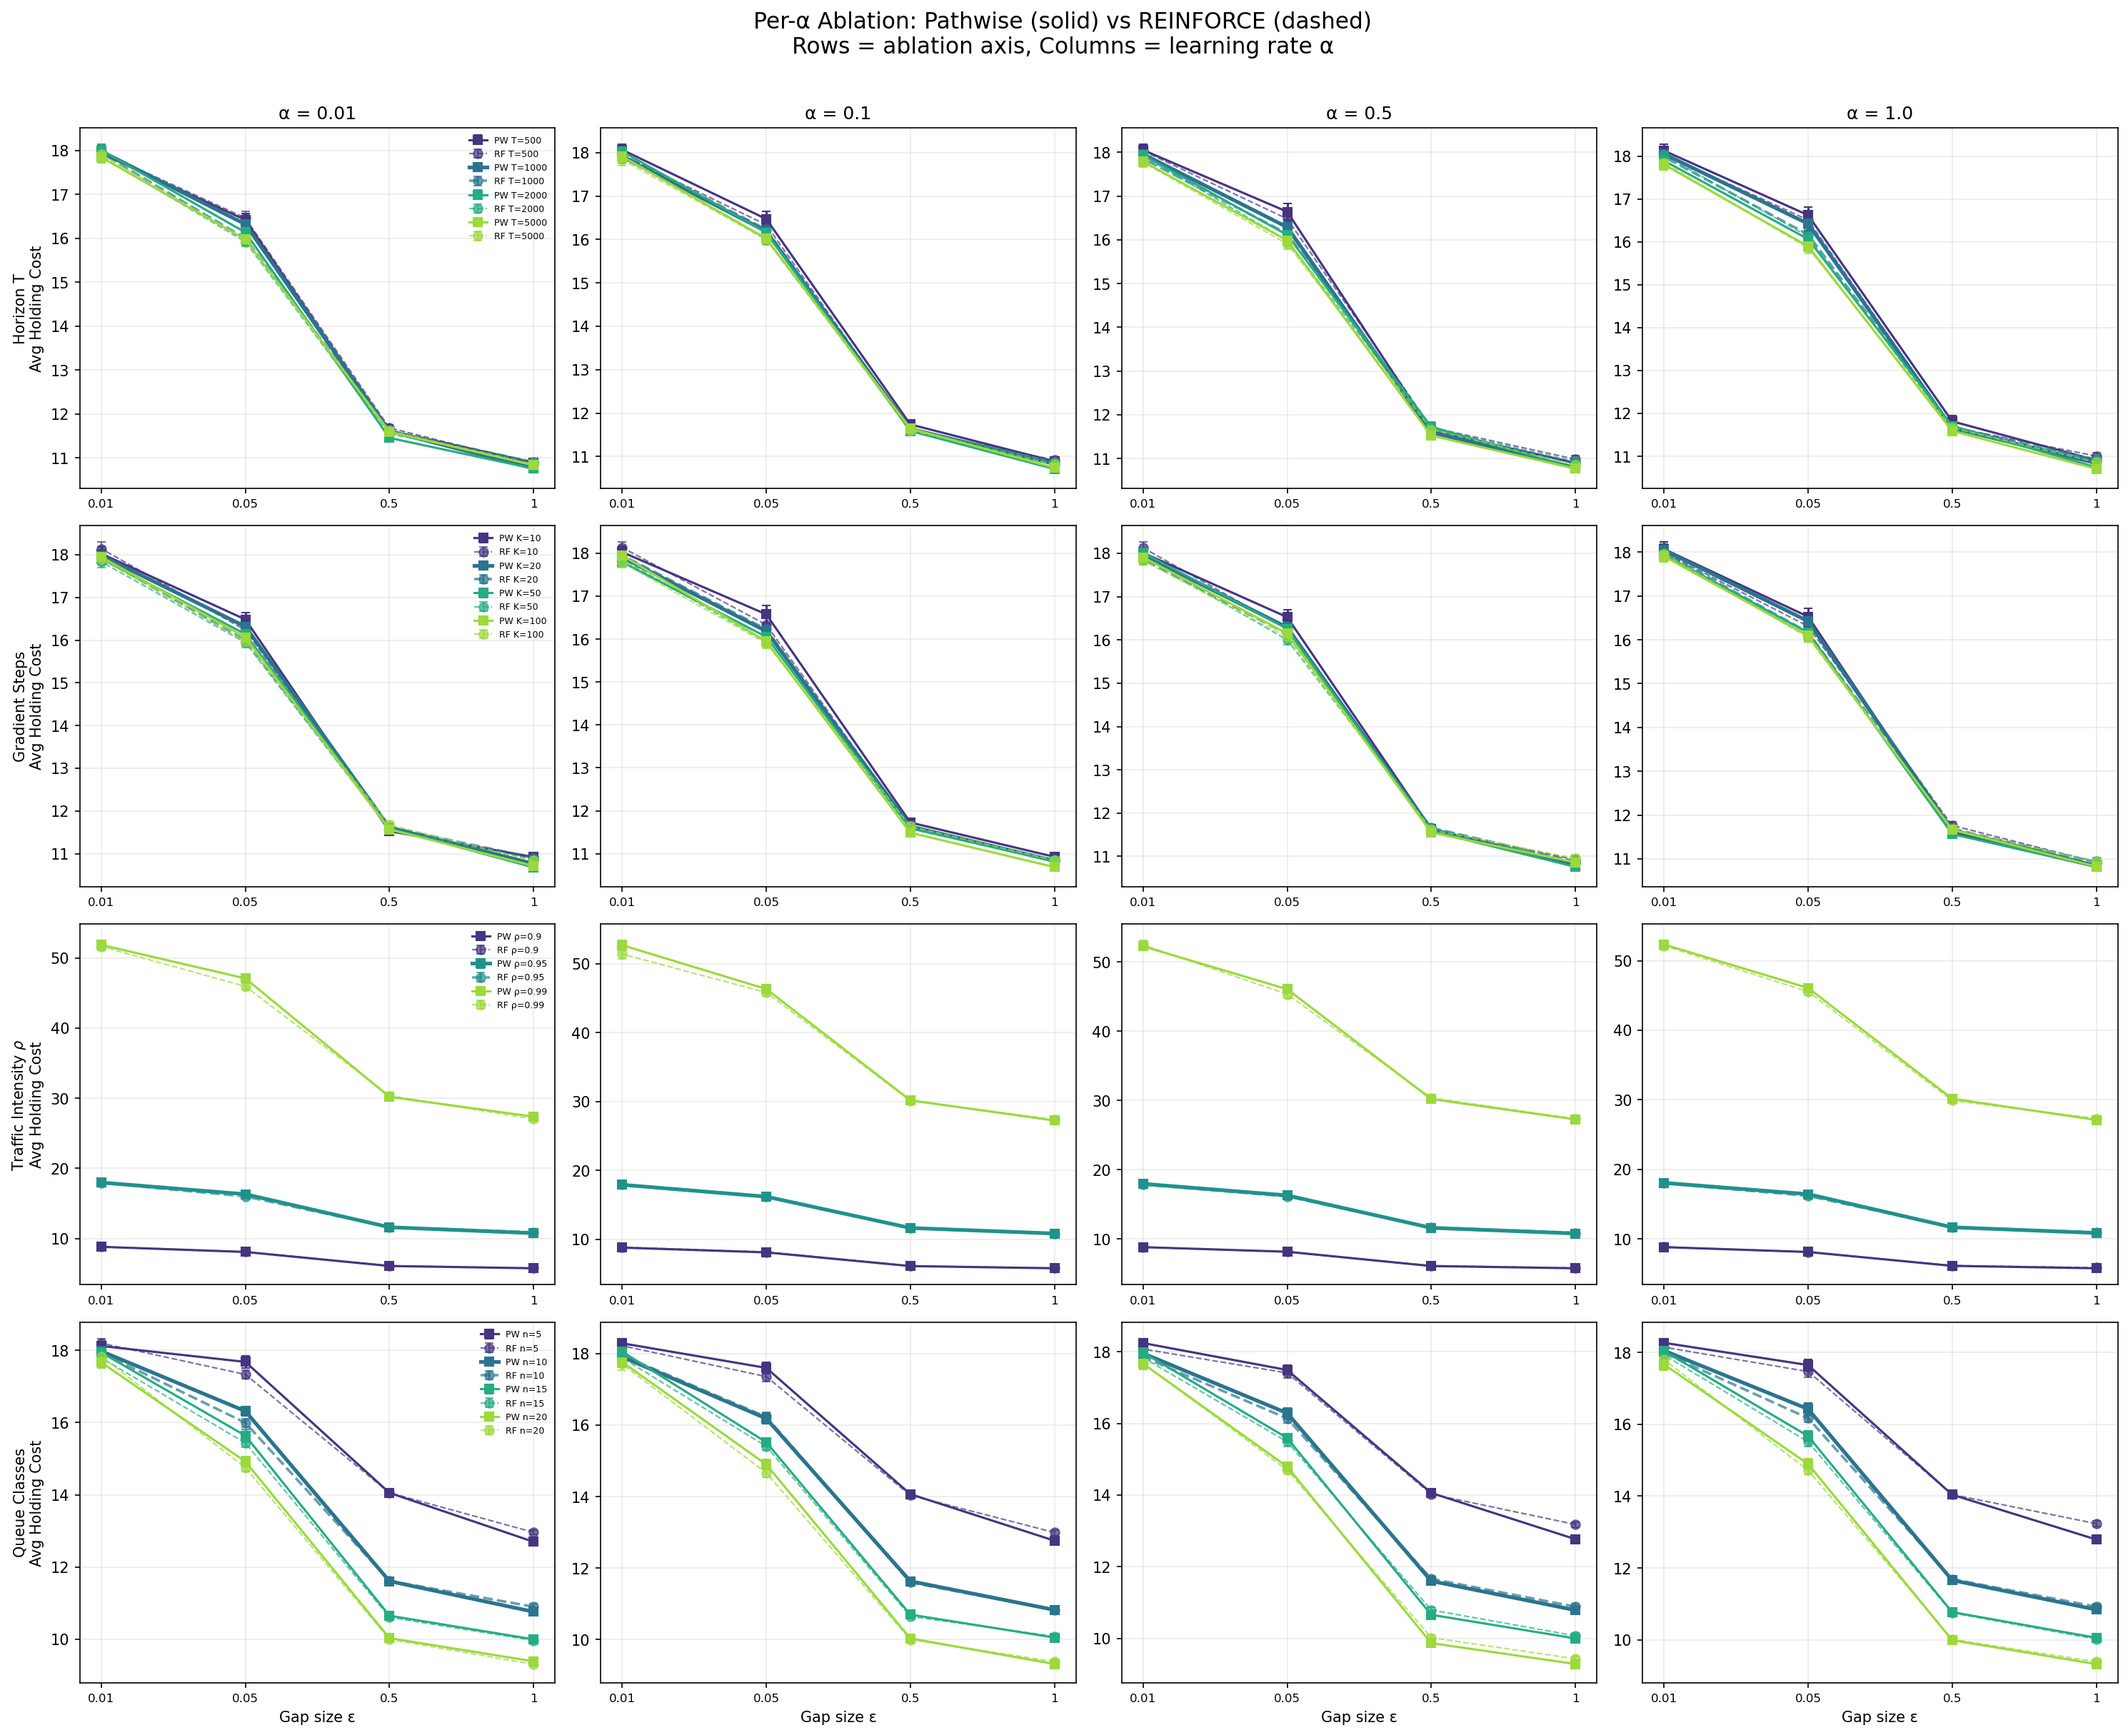
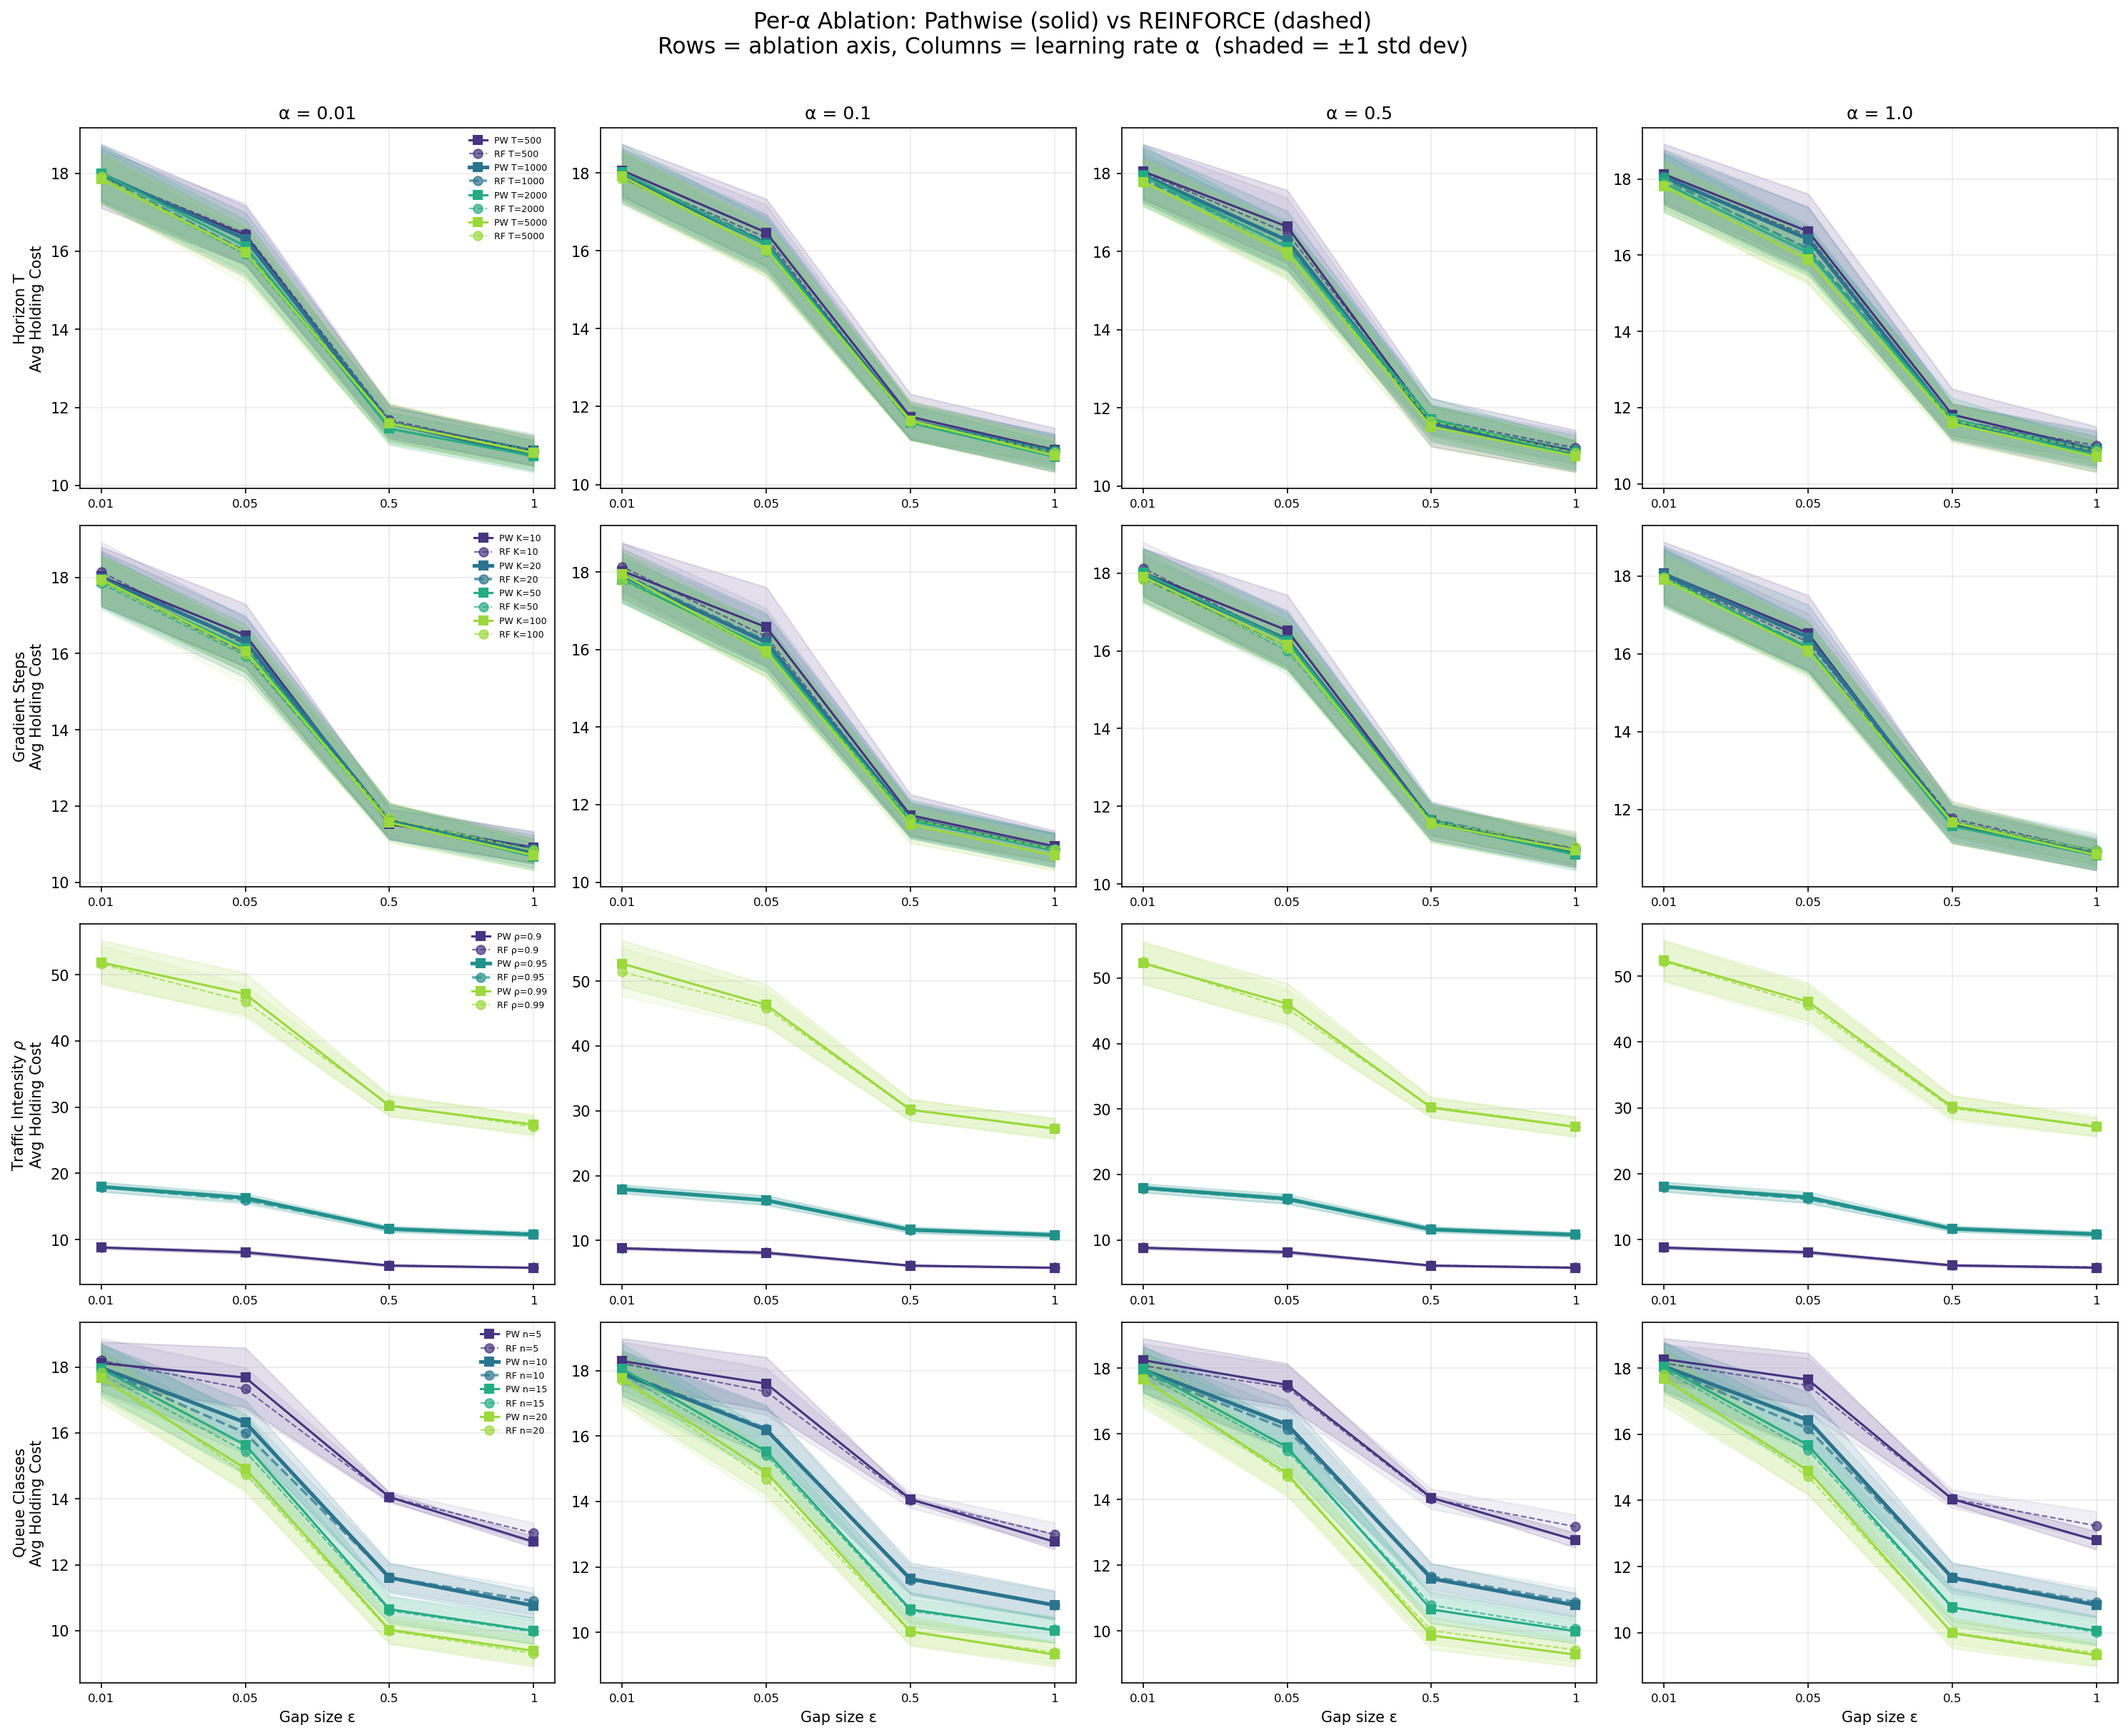
Add error bars

diff --git a/cmu/ablation_plots.py b/cmu/ablation_plots.py
@@ -179,25 +179,34 @@ for row, (axis_name, axis_values) in enumerate(ABLATIONS.items()):
             pw_data = load_ablation('pathwise', axis_name, val)
             rf_data = load_ablation('reinforce', axis_name, val)
 
-            pw_means, pw_ci, rf_means, rf_ci = [], [], [], []
+            pw_means, pw_std, rf_means, rf_std = [], [], [], []
             for gap in GAPS:
                 pw_c = np.array([r['avg_cost'] for r in pw_data[alpha][gap]])
                 rf_c = np.array([r['avg_cost'] for r in rf_data[alpha][gap]])
                 pw_means.append(np.mean(pw_c))
-                pw_ci.append(1.96 * np.std(pw_c) / np.sqrt(len(pw_c)))
+                pw_std.append(np.std(pw_c))
                 rf_means.append(np.mean(rf_c))
-                rf_ci.append(1.96 * np.std(rf_c) / np.sqrt(len(rf_c)))
+                rf_std.append(np.std(rf_c))
+
+            pw_means = np.array(pw_means)
+            pw_std = np.array(pw_std)
+            rf_means = np.array(rf_means)
+            rf_std = np.array(rf_std)
 
             lbl = AXIS_VAL_FMT[axis_name](val)
             is_baseline = (val == BASELINE[axis_name])
             lw_pw = 2.5 if is_baseline else 1.5
 
-            ax.errorbar(x_pos, pw_means, yerr=pw_ci, marker='s', linestyle='-',
-                        linewidth=lw_pw, capsize=3, color=colors[vi],
-                        label=f'PW {lbl}' if col == 0 else None)
-            ax.errorbar(x_pos, rf_means, yerr=rf_ci, marker='o', linestyle='--',
-                        linewidth=lw_pw * 0.7, capsize=3, color=colors[vi], alpha=0.7,
-                        label=f'RF {lbl}' if col == 0 else None)
+            ax.plot(x_pos, pw_means, marker='s', linestyle='-',
+                    linewidth=lw_pw, color=colors[vi],
+                    label=f'PW {lbl}' if col == 0 else None)
+            ax.fill_between(x_pos, pw_means - pw_std, pw_means + pw_std,
+                            color=colors[vi], alpha=0.15)
+            ax.plot(x_pos, rf_means, marker='o', linestyle='--',
+                    linewidth=lw_pw * 0.7, color=colors[vi], alpha=0.7,
+                    label=f'RF {lbl}' if col == 0 else None)
+            ax.fill_between(x_pos, rf_means - rf_std, rf_means + rf_std,
+                            color=colors[vi], alpha=0.08)
 
         ax.set_xticks(x_pos)
         ax.set_xticklabels([str(g) for g in GAPS_FLOAT], fontsize=8)
@@ -214,7 +223,7 @@ for row, (axis_name, axis_values) in enumerate(ABLATIONS.items()):
 
 fig.suptitle(
     'Per-α Ablation: Pathwise (solid) vs REINFORCE (dashed)\n'
-    'Rows = ablation axis, Columns = learning rate α',
+    r'Rows = ablation axis, Columns = learning rate α  (shaded = ±1 std dev)',
     fontsize=15, y=1.01
 )
 plt.tight_layout()
